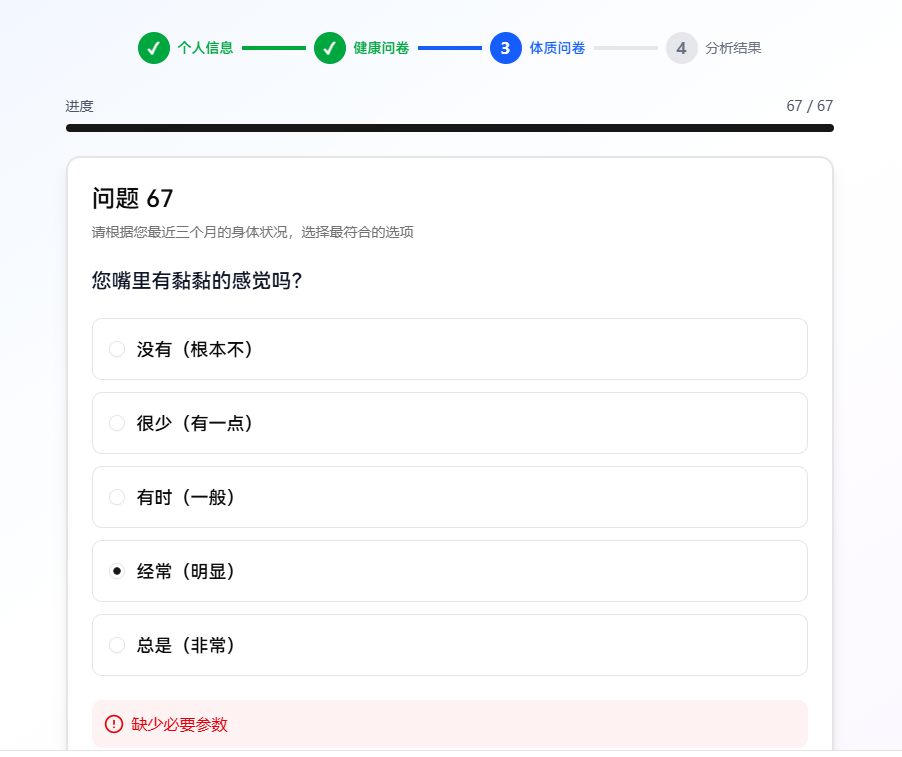
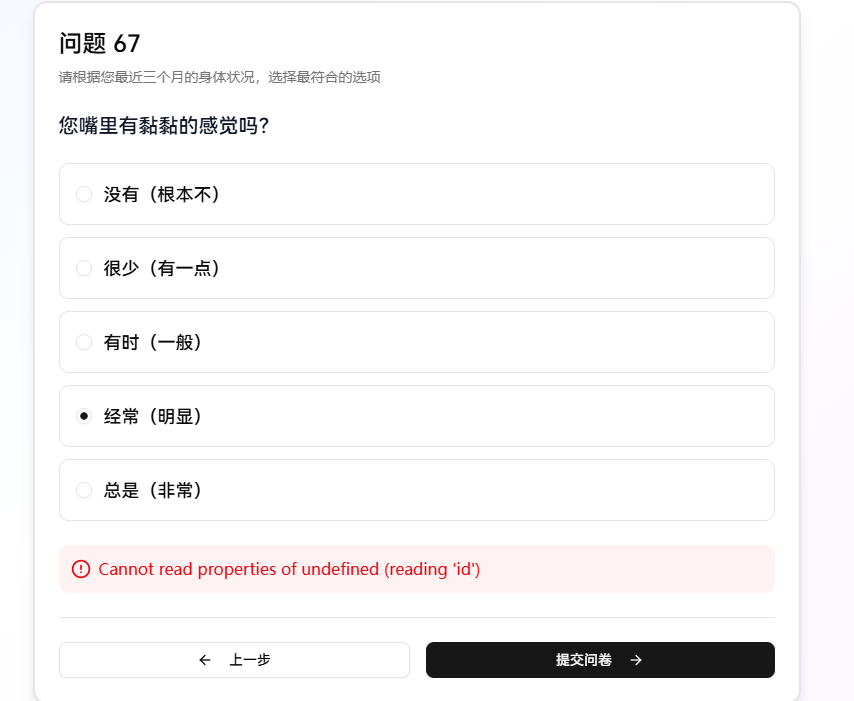
fix: 修复健康评估流程中的多个错误

diff --git a/src/app/api/health-questionnaire/route.ts b/src/app/api/health-questionnaire/route.ts
@@ -106,7 +106,8 @@ export async function POST(request: NextRequest) {
 
     // 步骤1: 插入基本字段（使用personalInfo中的值）
     await (db.execute as any)(
-      sql`INSERT INTO health_questionnaires (id, user_id, age, gender, height, weight, bmi, notes) VALUES (${questionnaireId}, ${userId}, ${personalInfo.age}, ${personalInfo.gender}, ${personalInfo.height}, ${personalInfo.weight}, ${bmi}, ${notes})`
+      sql`INSERT INTO health_questionnaires (id, user_id, age, gender, height, weight, bmi, notes)
+        VALUES (${questionnaireId}, ${userId}, ${personalInfo.age}, ${personalInfo.gender}, ${personalInfo.height}, ${personalInfo.weight}, ${bmi}, ${notes || null})`
     );
 
     // 步骤2: 更新疾病史字段
@@ -121,13 +122,17 @@ export async function POST(request: NextRequest) {
       return JSON.stringify(arr);
     };
 
-    // 处理sleep_hours - 将"7-8小时"转换为数值
+    // 处理sleep_hours - 将"7-8小时"转换为数值，或者直接使用数字
     let processedSleepHours = null;
     if (sleepHours) {
-      // 提取数字部分
-      const match = sleepHours.match(/(\d+)/);
-      if (match) {
-        processedSleepHours = Number(match[1]);
+      if (typeof sleepHours === 'number') {
+        processedSleepHours = sleepHours;
+      } else if (typeof sleepHours === 'string') {
+        // 提取数字部分
+        const match = sleepHours.match(/(\d+)/);
+        if (match) {
+          processedSleepHours = Number(match[1]);
+        }
       }
     }
 

diff --git a/src/app/health-assessment/constitution/page.tsx b/src/app/health-assessment/constitution/page.tsx
@@ -45,9 +45,22 @@ function ConstitutionContent() {
   }, []);
 
   const currentQuestion = shuffledQuestions[currentIndex];
-  const progress = ((currentIndex + 1) / shuffledQuestions.length) * 100;
+  const progress = shuffledQuestions.length > 0 ? ((currentIndex + 1) / shuffledQuestions.length) * 100 : 0;
+
+  // 如果问题还没加载完成，显示加载状态
+  if (!currentQuestion || shuffledQuestions.length === 0) {
+    return (
+      <div className="min-h-screen bg-gradient-to-br from-blue-50 via-white to-purple-50 p-8 flex items-center justify-center">
+        <div className="text-center">
+          <div className="w-16 h-16 border-4 border-blue-600 border-t-transparent rounded-full animate-spin mx-auto mb-4"></div>
+          <p className="text-gray-600">正在加载问卷...</p>
+        </div>
+      </div>
+    );
+  }
 
   const handleAnswer = (value: string) => {
+    if (!currentQuestion) return;
     const score = parseInt(value);
     setAnswers({ ...answers, [currentQuestion.id]: score });
   };
@@ -59,6 +72,7 @@ function ConstitutionContent() {
   };
 
   const handleNext = () => {
+    if (!currentQuestion) return;
     if (!answers[currentQuestion.id]) {
       setError('请先选择一个选项');
       return;
